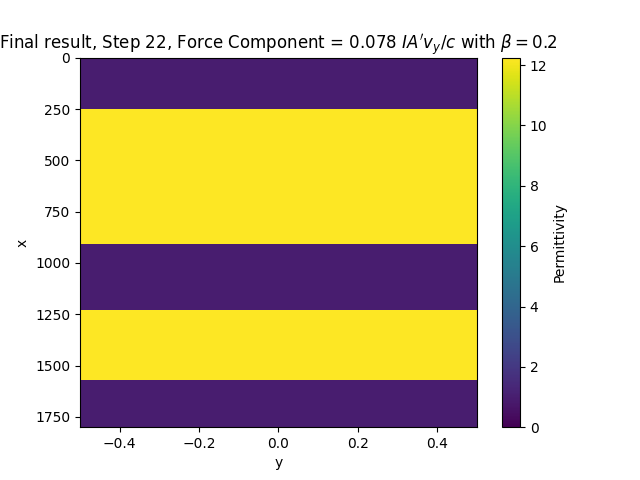
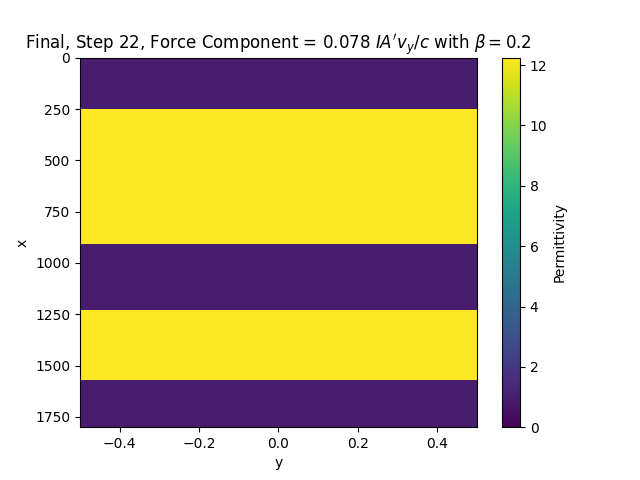
More visualisation tools, some fixes

Changed region(s): [[0.0, 0.0625, 0.875, 0.125]]

diff --git a/grcwa/optimising_force_2.0.py b/grcwa/optimising_force_2.0.py
@@ -6,6 +6,8 @@ import autograd.numpy as np
 from autograd import grad
 import matplotlib.pyplot as plt
 
+save_figs = False
+
 ## Discretisation values
 nG = 30
 Nx = 1801
@@ -47,6 +49,7 @@ grad_fun = grad(min_objective)
 vars = [eps1,eps2,eps1,eps2] # top of e1, top of e2, bottom of e1, bottom of e2
 step_size = 1/np.sqrt(np.sum(np.array(grad_fun(vars))**2)) # define step size so that first step is of size 1
 obj_vals = []
+all_objs = []
 var_vals = []
 w_vals = []
 x_vals = []
@@ -66,6 +69,7 @@ while optimising:
 
         # Add to history of parameters and objective values
         var_vals.append(vars)
+        all_objs.append(obj)
         obj_vals.append(obj)
         x_vals.append([x1,x2])
         w_vals.append([w1,w2])
@@ -80,7 +84,8 @@ while optimising:
         plt.xlabel("y")
         plt.ylabel("x")
         plt.title(r"Initialisation, Force Component = {} $I A' v_y / c$ with $\beta = {}$".format(round(obj,3),beta))
-        plt.savefig('grcwa/figs/INITIAL_optimising_force_2.0.png')
+        if save_figs:
+            plt.savefig('grcwa/figs/INITIAL_optimising_force_2.0.png')
 
     ## Perform Optimisation
     else:
@@ -105,14 +110,24 @@ while optimising:
         # Condition 1: minimum has been overstepped, leading objective to increase
         if obj - obj_vals[-1] > 1e-5:
             overstep_count += 1
+            all_objs.append(obj)
             if overstep_count > 20:
                 print("\nOptimum reached after {} steps.".format(step))
+                vars = var_vals[-1] # move vars back to their original place
+                w1 = w_vals[-1][0]
+                w2 = w_vals[-1][1]
+                x1 = x_vals[-1][0]
+                x2 = x_vals[-1][1]
                 break
             else:
                 step_size = 0.9*step_size # decrease the step size
                 print("{:<13} | {:<10.5f} | {:<8.3f} | {:<8.3f} | {:<8.3f} | {:<8.3f} | {:<8.3f} | {:<8.3f}".format('OVERSTEP #{}'.format(overstep_count),obj,vars[0],vars[1],x1,x2,w1,w2), end='\r')
                 
                 vars = var_vals[-1] # move vars back to their original place
+                w1 = w_vals[-1][0]
+                w2 = w_vals[-1][1]
+                x1 = x_vals[-1][0]
+                x2 = x_vals[-1][1]
                 continue
         else:
             overstep_count = 0
@@ -124,6 +139,7 @@ while optimising:
 
         # Add to history of parameters and objective values
         var_vals.append(vars)
+        all_objs.append(obj)
         obj_vals.append(obj)
         x_vals.append([x1,x2])
         w_vals.append([w1,w2])
@@ -148,8 +164,20 @@ print("Cost without boundary permittivities:", basic_cost)
 plt.imshow(basic_geometry, interpolation='nearest', vmin=0, vmax=E_Si, aspect='auto')
 plt.xlabel("y")
 plt.ylabel("x")
-plt.title(r"Final result, Step {}, Force Component = {} $I A' v_y / c$ with $\beta = {}$".format(step, round(basic_cost,3),beta))
-plt.savefig('grcwa/figs/FINAL_optimising_force_2.0.png')
+plt.title(r"Final, Step {}, Force Component = {} $I A' v_y / c$ with $\beta = {}$".format(step, round(basic_cost,3),beta))
+if save_figs:
+    plt.savefig('grcwa/figs/FINAL_optimising_force_2.0.png')
+
+
+
+plt.close()
+
+## Mapping out objective function
+all_objs.sort()
+steps = range(0,len(all_objs))
+
+plt.plot(steps, all_objs, 'o')
+plt.savefig('grcwa/figs/optimising_force_2.0.png')
 
 '''
 Objectives:

diff --git a/grcwa/core.py b/grcwa/core.py
@@ -612,39 +612,39 @@ def valid_eps(vars,d,Nx,x1,x2,w1,w2):
     elif len(vars) == 4:
         if vars[0] < E_vacuum:
             vars[0] = E_Si - (E_vacuum - vars[0])
-            x1 = x1 - 0.5*d/(Nx-1)
+            x1 = x1 + 0.5*d/(Nx-1)
             w1 = w1 - d/(Nx-1)
         elif vars[0] > E_Si:
             vars[0] = E_vacuum + (vars[0] - E_Si)
-            x1 = x1 + 0.5*d/(Nx-1)
+            x1 = x1 - 0.5*d/(Nx-1)
             w1 = w1 + d/(Nx-1)
             pass
 
         if vars[1] < E_vacuum:
             vars[1] = E_Si - (E_vacuum - vars[1])
-            x2 = x2 - 0.5*d/(Nx-1)
+            x2 = x2 + 0.5*d/(Nx-1)
             w2 = w2 - d/(Nx-1)
         elif vars[1] > E_Si:
             vars[1] = E_vacuum + (vars[1] - E_Si)
-            x2 = x2 + 0.5*d/(Nx-1)
+            x2 = x2 - 0.5*d/(Nx-1)
             w2 = w2 + d/(Nx-1)
 
         if vars[2] < E_vacuum:
             vars[2] = E_Si - (E_vacuum - vars[2])
-            x1 = x1 + 0.5*d/(Nx-1)
+            x1 = x1 - 0.5*d/(Nx-1)
             w1 = w1 - d/(Nx-1)
         elif vars[2] > E_Si:
             vars[2] = E_vacuum + (vars[2] - E_Si)
-            x1 = x1 - 0.5*d/(Nx-1)
+            x1 = x1 + 0.5*d/(Nx-1)
             w1 = w1 + d/(Nx-1)
 
         if vars[3] < E_vacuum:
             vars[3] = E_Si - (E_vacuum - vars[3])
-            x2 = x2 + 0.5*d/(Nx-1)
+            x2 = x2 - 0.5*d/(Nx-1)
             w2 = w2 - d/(Nx-1)
         elif vars[3] > E_Si:
             vars[3] = E_vacuum + (vars[3] - E_Si)
-            x2 = x2 - 0.5*d/(Nx-1)
+            x2 = x2 + 0.5*d/(Nx-1)
             w2 = w2 + d/(Nx-1)
 
         return vars,x1,x2,w1,w2
